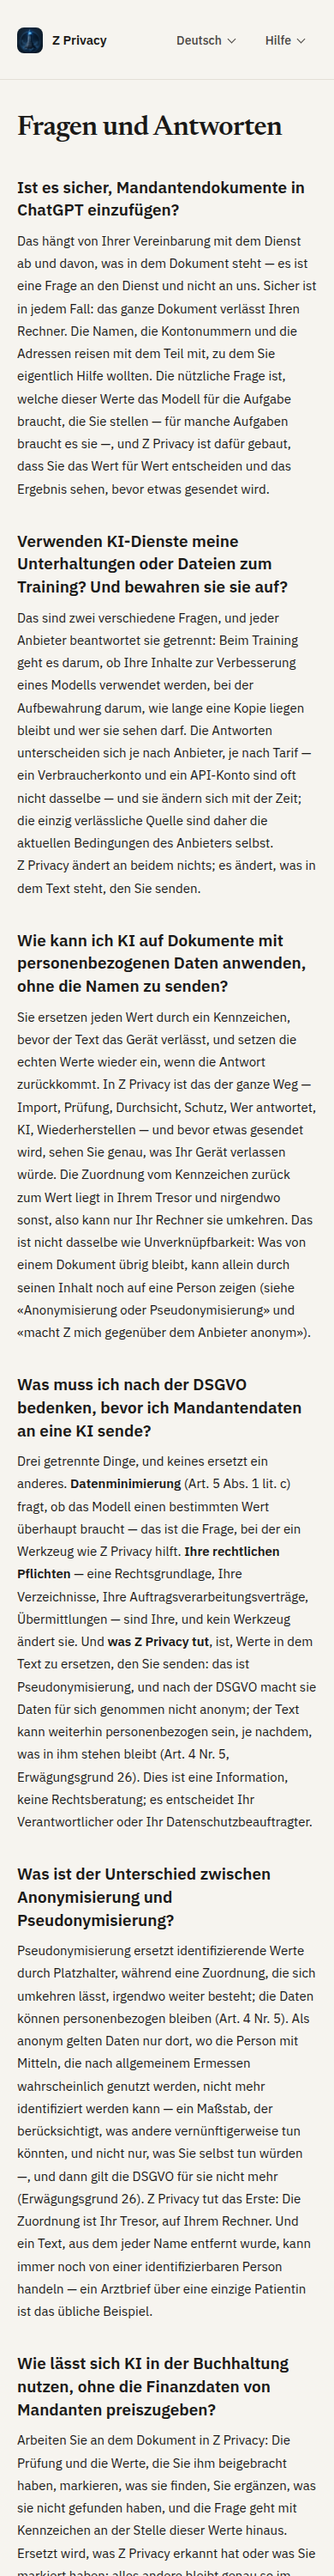
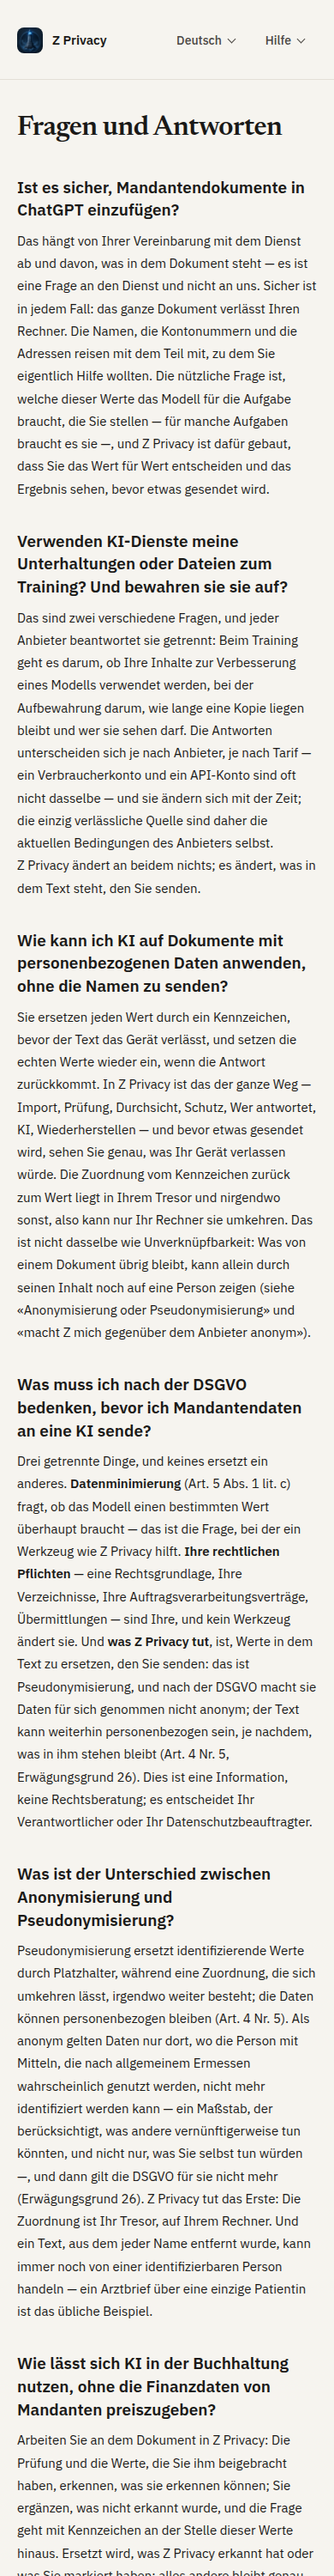
118 · «markiert» is the person's hand; the English «mark» goes on the list
His ruling, and his finding.

GERMAN, FIXED. Q6 said «Die Prüfung und die Werte … markieren, was sie
finden», which gave the scan the person's verb. It now reads «… erkennen, was
sie erkennen können; Sie ergänzen, was nicht erkannt wurde, …», following the
owner's own Arabic. After it, «markiert» appears twice in the whole German and
both are the person: «was Sie markiert haben» in Q6 and «Sie nicht markiert
haben» in Q12.

ENGLISH, NOT FIXED — recorded in docs/faq-review.md beside the Q21 note, for
the owner. Q6 says «the scan and your own taught values **mark** what they
find», while every other «mark» on the page is the person's hand: «what you
marked» in Q12, «what must I mark myself» in Q19's heading. It is approved
text and is not touched here.

WHAT THAT LEAVES, said plainly because it is the part a reader of this commit
needs: **the three languages now disagree.** The Arabic and the German say it
the owner's way and the English does not, and they cannot be reconciled from
here — the English is his. Until he settles it the pages are faithful
translations of an English sentence that two of its own translations have
already corrected.

THE THIRD TIME IN THREE LANGUAGES. «تعمية» was encryption and anonymisation;
«Prüfung» was the scan and the gate; «mark» is the scan and the hand. Three
one-word collisions, each found by a person reading their own language, none
by any script here. The absolutes register can say a word is present and the
[…]

Changed region(s): [[0.0615, 0.961, 0.9231, 1.0]]

diff --git a/site/de/faq/index.html b/site/de/faq/index.html
@@ -76,7 +76,7 @@
       "name": "Wie lässt sich KI in der Buchhaltung nutzen, ohne die Finanzdaten von Mandanten preiszugeben?",
       "acceptedAnswer": {
         "@type": "Answer",
-        "text": "Arbeiten Sie an dem Dokument in Z Privacy: Die Prüfung und die Werte, die Sie ihm beigebracht haben, markieren, was sie finden, Sie ergänzen, was sie nicht gefunden haben, und die Frage geht mit Kennzeichen an der Stelle dieser Werte hinaus. Ersetzt wird, was Z Privacy erkannt hat oder was Sie markiert haben; alles andere bleibt genau so im Text, wie Sie ihn freigegeben haben — deshalb gibt es den Schritt der Durchsicht, und deshalb wird er Ihnen gezeigt, bevor etwas gesendet wird. Ihre Berufspflichten ändert das nicht: Z Privacy verringert, was Sie senden; es macht das Senden nicht zulässig."
+        "text": "Arbeiten Sie an dem Dokument in Z Privacy: Die Prüfung und die Werte, die Sie ihm beigebracht haben, erkennen, was sie erkennen können; Sie ergänzen, was nicht erkannt wurde, und die Frage geht mit Kennzeichen an der Stelle dieser Werte hinaus. Ersetzt wird, was Z Privacy erkannt hat oder was Sie markiert haben; alles andere bleibt genau so im Text, wie Sie ihn freigegeben haben — deshalb gibt es den Schritt der Durchsicht, und deshalb wird er Ihnen gezeigt, bevor etwas gesendet wird. Ihre Berufspflichten ändert das nicht: Z Privacy verringert, was Sie senden; es macht das Senden nicht zulässig."
       }
     },
     {
@@ -273,7 +273,7 @@
   </section>
   <section aria-labelledby="q6">
     <h2 class="q" id="q6">Wie lässt sich KI in der Buchhaltung nutzen, ohne die Finanzdaten von Mandanten preiszugeben?</h2>
-    <p class="a">Arbeiten Sie an dem Dokument in Z&nbsp;Privacy: Die Prüfung und die Werte, die Sie ihm beigebracht haben, markieren, was sie finden, Sie ergänzen, was sie nicht gefunden haben, und die Frage geht mit Kennzeichen an der Stelle dieser Werte hinaus. Ersetzt wird, was Z&nbsp;Privacy erkannt hat oder was Sie markiert haben; alles andere bleibt genau so im Text, wie Sie ihn freigegeben haben — deshalb gibt es den Schritt der Durchsicht, und deshalb wird er Ihnen gezeigt, bevor etwas gesendet wird. Ihre Berufspflichten ändert das nicht: Z&nbsp;Privacy verringert, was Sie senden; es macht das Senden nicht zulässig.</p>
+    <p class="a">Arbeiten Sie an dem Dokument in Z&nbsp;Privacy: Die Prüfung und die Werte, die Sie ihm beigebracht haben, erkennen, was sie erkennen können; Sie ergänzen, was nicht erkannt wurde, und die Frage geht mit Kennzeichen an der Stelle dieser Werte hinaus. Ersetzt wird, was Z&nbsp;Privacy erkannt hat oder was Sie markiert haben; alles andere bleibt genau so im Text, wie Sie ihn freigegeben haben — deshalb gibt es den Schritt der Durchsicht, und deshalb wird er Ihnen gezeigt, bevor etwas gesendet wird. Ihre Berufspflichten ändert das nicht: Z&nbsp;Privacy verringert, was Sie senden; es macht das Senden nicht zulässig.</p>
   </section>
   <section aria-labelledby="q7">
     <h2 class="q" id="q7">Wie lässt sich KI in einer Kanzlei vertraulich auf Fallakten anwenden?</h2>

diff --git a/docs/faq-translation-draft.md b/docs/faq-translation-draft.md
@@ -108,7 +108,7 @@ English one means is a judgement, and for Arabic the owner is the reader.
 
 **EN (approved).** Work on the document inside Z Privacy: the scan and your own taught values mark what they find, you add anything they did not, and the question goes out with tokens in place of those values. What is replaced is what Z Privacy detected or you marked; everything else stays in the text exactly as you approved it, which is why the review step exists and why it is shown to you before anything is sent. Your professional obligations are not changed by this: Z Privacy reduces what you send, it does not make the sending permissible.
 
-**DE (draft).** Arbeiten Sie an dem Dokument in Z Privacy: Die Prüfung und die Werte, die Sie ihm beigebracht haben, markieren, was sie finden, Sie ergänzen, was sie nicht gefunden haben, und die Frage geht mit Kennzeichen an der Stelle dieser Werte hinaus. Ersetzt wird, was Z Privacy erkannt hat oder was Sie markiert haben; alles andere bleibt genau so im Text, wie Sie ihn freigegeben haben — deshalb gibt es den Schritt der Durchsicht, und deshalb wird er Ihnen gezeigt, bevor etwas gesendet wird. Ihre Berufspflichten ändert das nicht: Z Privacy verringert, was Sie senden; es macht das Senden nicht zulässig.
+**DE (draft).** Arbeiten Sie an dem Dokument in Z Privacy: Die Prüfung und die Werte, die Sie ihm beigebracht haben, erkennen, was sie erkennen können; Sie ergänzen, was nicht erkannt wurde, und die Frage geht mit Kennzeichen an der Stelle dieser Werte hinaus. Ersetzt wird, was Z Privacy erkannt hat oder was Sie markiert haben; alles andere bleibt genau so im Text, wie Sie ihn freigegeben haben — deshalb gibt es den Schritt der Durchsicht, und deshalb wird er Ihnen gezeigt, bevor etwas gesendet wird. Ihre Berufspflichten ändert das nicht: Z Privacy verringert, was Sie senden; es macht das Senden nicht zulässig.
 
 **AR (draft).** <div dir="rtl" lang="ar">
 

diff --git a/docs/faq-review.md b/docs/faq-review.md
@@ -228,6 +228,8 @@ measured one request, one door or one path, the answer says so in those words.
 
 **Evidence.** `LICENSE` (Apache-2.0) and the footer of every published page; `C-03` (no account); `C-17` for the keyless local model. There is no price, no billing code and no purchase path anywhere in the tree — an absence, stated as one.
 
+**Later, not in this build — the lead's English finding of 27 October, for the owner.** One word carries two meanings in the English, and it is the third time this round in a third language: **«mark»**. Q6 says «the scan and your own taught values **mark** what they find», and every other «mark» on the page is the person's own hand — «what you marked» in Q12, «what must I mark myself» in Q19's heading. It is exactly what the owner caught in the Arabic Q6 and what the lead then caught in the German. The English is approved text, so it is not touched here; the German and the Arabic already say it his way, which means the three languages disagree until this is settled in all three together.
+
 **Later, not in this build — the owner's editorial note of 27 October.** «a model running on your own computer costs nothing at all» overreaches: it costs electricity and it costs the machine. It becomes, in all three languages, **«needs no fee to an AI provider just to run it locally»**. That is an English, German and Arabic change together, and it is not in the pages built on 27 October.
 
 **Changed.** The hedge is withdrawn on the owner's word: **«free» stands with no qualification.** His reason is a company decision rather than a measurement — Z Privacy is Faruk AB's investment in trust, and Mono Scribe is the commercial product — and it is recorded here so that the sentence has a known author.
